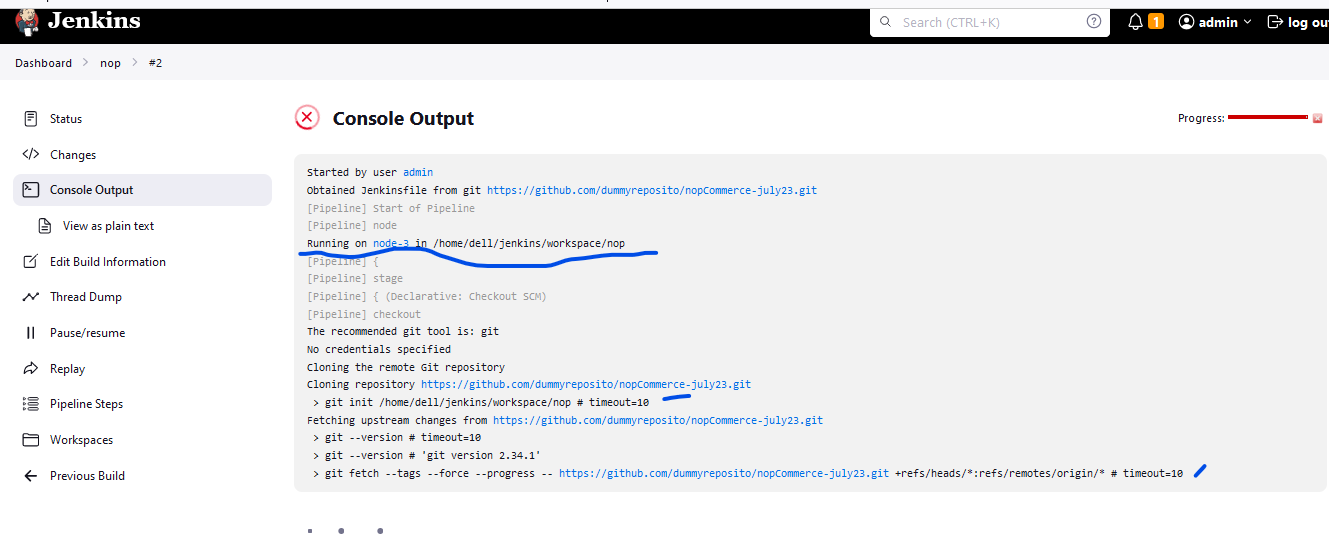
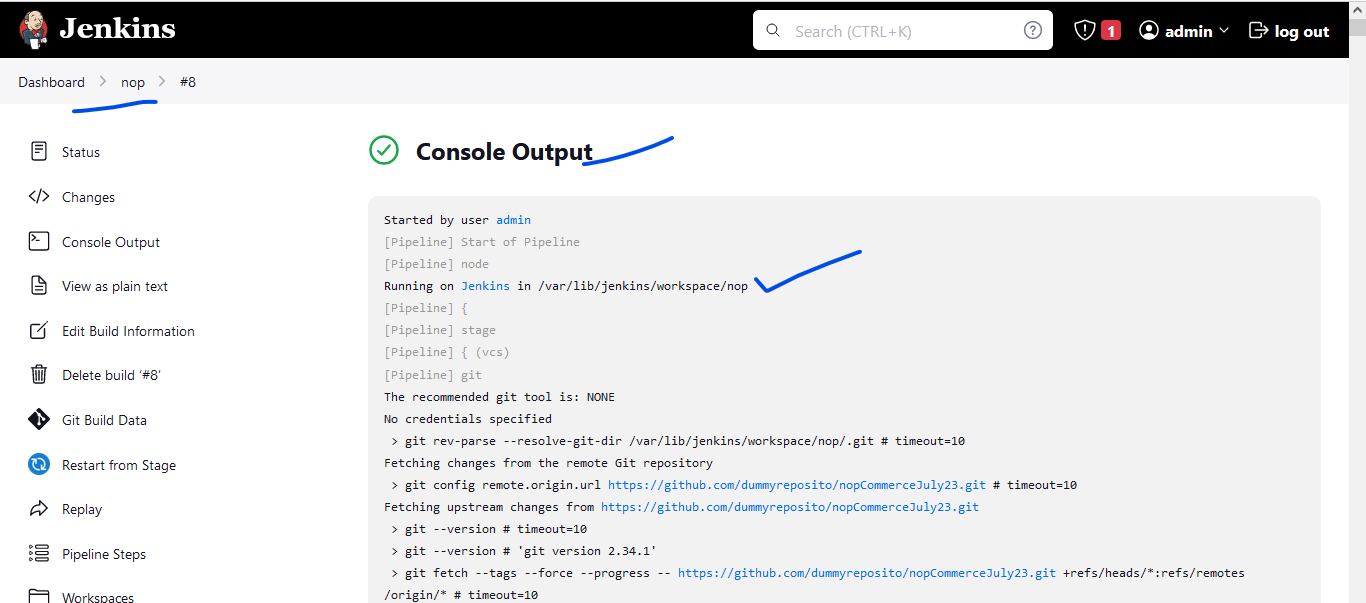
.

diff --git a/Jenkins/Jenkins_Workshop/Jenkins_Workshop.md b/Jenkins/Jenkins_Workshop/Jenkins_Workshop.md
@@ -61,14 +61,15 @@ Actual Workshop Steps:
 
 ```Jenkinsfile
 pipeline {
-    agent any
+   agent any
+  
     stages {
         stage('vcs') {
             steps {
                 git branch: 'develop', 
-                    url: 'https://github.com/dummyreposito/nopCommerce-july23.git'    
-            } 
-
+                    url: ' https://github.com/dummyreposito/nopCommerceJuly23.git'    
+            }
+            
         }
         stage('package') {
             steps {
@@ -78,7 +79,7 @@ pipeline {
                 sh 'mkdir publish/bin publish/logs && zip -r nopCommerce.zip publish'
                 archive '**/nopCommerce.zip'
             }
-
+            
         }
     }
 }
@@ -95,8 +96,10 @@ git push origin develop
 ![Preview](./Images/jenkins3.png)
 ![Preview](./Images/jenkins4.png)
 * Build Result Success
-
-
+![Preview](./Images/jenkins5.png)
+* build is success and created archieve the nopcommerce.zip click to download it.
+![Preview](./Images/jenkins6.png)
+![Preview](./Images/jenkins7.png) 
 
 ### Container Based Deployment:
 #### Steps:
@@ -111,17 +114,113 @@ git push origin develop
             * git
             * zip 
             * Docker
+            * Terraform
+            * azure cli
+            * kubectl 
+* Needs to authenticate azure-cli with az login and docker with docker login
+
+```
+# For Azure
+az login
+# Docker 
+docker login
+```
 
    2. build steps: Manual
    ```
-   git clone https://github.com/CICDProjects/nopCommerceJuly23.git
+   git clone https://github.com/dummyreposito/nopCommerceJuly23.git
+   # create a new branch 
+   git checkout -b dev-container
+   code .
    # replace latest with Git Commit id or build id
-   docker image build -t nopCommerce:latest .
-   docker image tag nopCommmerce:latest ajaykumarramesh/nopCommerce:latest
-   docker image push ajaykumarramesh/nopCommerce:latest
+   docker image build -t nopcommerce:latest .
+   docker container run -d --name noptest -P nopcommerce:latest
+   docker image tag nopcommerce:latest ajaykumarramesh/nopcommerce:latest
+   docker image push ajaykumarramesh/nopcommerce:latest
    ```
-   1. Write Jenkinsfile for the above steps
-   
+
+### Creating kubernetes cluster from terraform:
+#### Workflow:   
+![Preview](./Images/jenkins8.png)
+
+* Create manually Resources for backend in azure cloud UI.
+```
+backend "azurerm" {
+    resource_group_name  = "terraform"
+    storage_account_name = "qttfstate"
+    container_name       = "tfstates"
+    key                  = "nopcommerce.tfstate"
+  }
+```
+* [Refer Here](https://github.com/dummyreposito/nopCommerceJuly23/tree/dev-container/deploy_Infrastructure) for terraform code to create infrastructure
+
+* [Refer Here](https://github.com/dummyreposito/nopCommerceJuly23/tree/dev-container/k8s) for for the k8s manifest
+
+#### Manual deployment steps for terraform and k8s 
+```
+cd deploy_Infrastructure
+terraform init
+terraform fmt 
+terraform apply -auto-approve
+az aks get-credentials --resource-group rg-mutual-hare --name cluster-logical-heron
+kubectl get nodes
+kubectl apply -f ./k8s/nop-deploy.yaml
+```
+### Jenkinsfile:
+* for above steps
+```Jenkinsfile
+pipeline {
+    agent {label 'Node_Docker'}
+    stages {
+        stage('vcs') {
+            steps {
+                git branch: 'dev-container', 
+                    url: 'https://github.com/dummyreposito/nopCommerceJuly23.git'    
+            }
+            
+        }
+        stage('package') {
+            steps {
+                sh 'docker image build -t nopcommerce:latest .'
+                sh 'docker image tag nopcommerce:latest ajaykumarramesh/nopcommerce:latest'
+                sh 'docker image push ajaykumarramesh/nopcommerce:latest'
+                
+            }            
+        }
+        stage('terraform') {
+            steps {
+                sh 'cd deploy_Infrastructure && terraform init && terraform apply -auto-approve' 
+                //sh 'echo "$(terraform output kube_config)" > ./azurek8s && export KUBECONFIG=./azurek8s && kubectl apply -f ../k8s/nop-deploy.yaml'
+            }
+        }
+        stage('k8s_deploy'){
+            steps{
+            sh 'az aks get-credentials --resource-group rg-mutual-sheepdog --name cluster-adjusted-glowworm && kubectl apply -f ./k8s/nop-deploy.yaml' 
+            }
+
+        }
+
+    }
+}
+```
+* Lets Build NopCommerce pipeline projects
+![Preview](./Images/jenkins9.png)
+![Preview](./Images/jenkins10.png)
+![Preview](./Images/jenkins11.png)
+* Build now
+![Preview](./Images/jenkins11.png)
+![Preview](./Images/jenkins12.png)
+* now acces the application 
+
+`http://20.253.20.251:3000`
+
+`http://external ip:svc-portn-o`
+
+---
+
+
+
+
      
     
 

diff --git a/Jenkins/Jenkins_Intro.md b/Jenkins/Jenkins_Intro.md
@@ -289,7 +289,7 @@ Distributed Builds
       * requirements to build
           * dotnet 7
 * To handle different builds with different software needs, we tend to use different servers.
-* Jenkins has distributed builds where we can distribute the builds on differnt nodes by matching labels
+* Jenkins has distributed builds where we can distribute the builds on different nodes by matching labels
 ![Preview](./Images/jenkins37.png)
 * While creating a project we can set labels and expect them to be executed on the node matching labels
 
